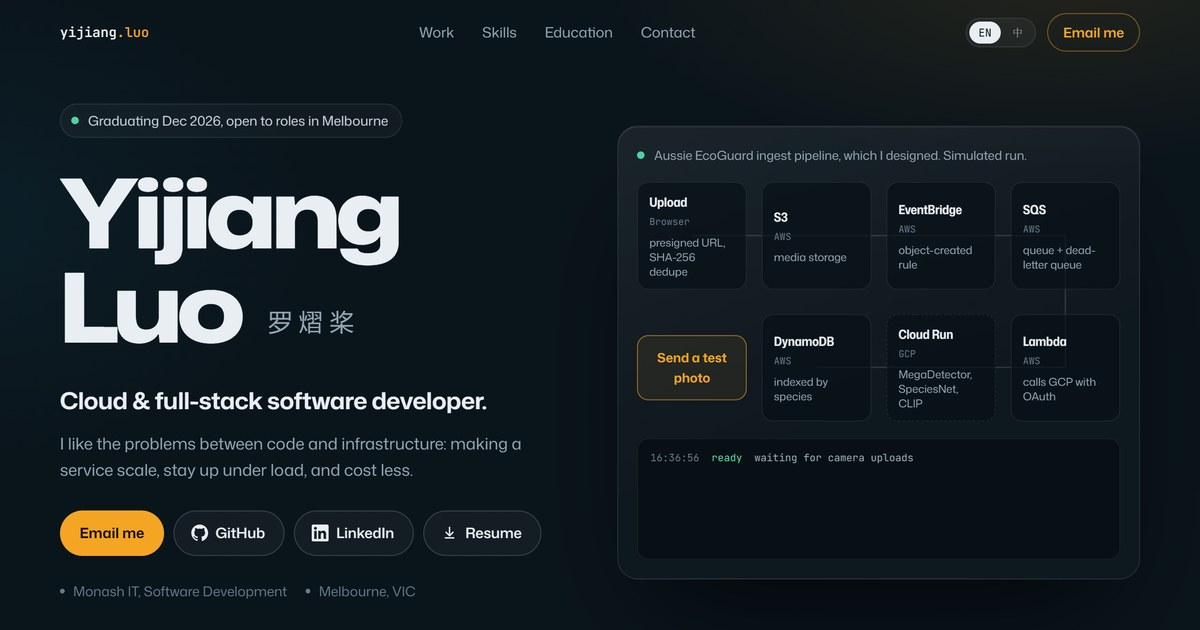
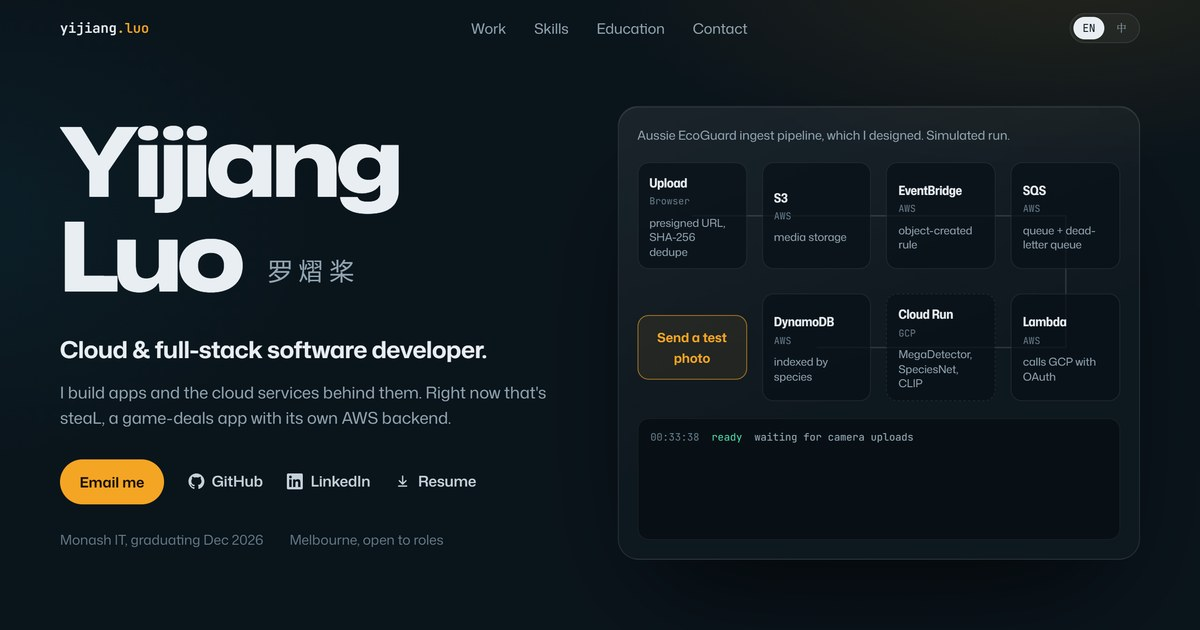
Update styles, scripts, and images for improved performance and clarity
- Update stylesheet and script versioning for cache busting
- Replace class name 'ghost' with 'pipe-ghost' for clarity
- Remove unused styles related to 'pill-cta'

diff --git a/index.html b/index.html
@@ -21,7 +21,7 @@
 <link rel="preconnect" href="https://fonts.gstatic.com" crossorigin>
 <link href="https://fonts.googleapis.com/css2?family=JetBrains+Mono:wght@400;500&family=Mona+Sans:wdth,wght@75..125,200..900&display=swap" rel="stylesheet">
 <!-- Bump ?v= whenever styles.css or main.js change, so browsers don't pair new HTML with a cached old file. -->
-<link rel="stylesheet" href="styles.css?v=20261118-3">
+<link rel="stylesheet" href="styles.css?v=20261119-1">
 <script>
   // Apply the saved language before first paint so the page doesn't flicker.
   (function () {
@@ -51,7 +51,6 @@
     <button class="lang" type="button" id="langToggle" aria-label="Switch language / 切换语言">
       <span class="opt" data-for="en">EN</span><span class="opt" data-for="zh">中</span>
     </button>
-    <a class="pill-cta" href="mailto:1246215651@qq.com"><span data-l="en">Email me</span><span data-l="zh">发邮件</span></a>
   </div>
 </header>
 
@@ -61,7 +60,6 @@
   <!-- ═════════════ Hero ═════════════ -->
   <section class="hero">
     <div class="intro">
-      <p class="avail"><span class="dot-live" aria-hidden="true"></span><span data-l="en">Graduating Dec 2026, open to roles in Melbourne</span><span data-l="zh">2026 年 12 月毕业，正在寻找墨尔本的工作机会</span></p>
       <h1 class="name">
         <span class="line"><span>Yijiang</span></span>
         <span class="line"><span>Luo <i class="cn" lang="zh-CN">罗熠桨</i></span></span>
@@ -71,26 +69,25 @@
         <span data-l="zh">云计算与全栈软件开发。</span>
       </p>
       <p class="lede">
-        <span data-l="en">I like the problems between code and infrastructure: making a service scale, stay up under load, and cost less.</span>
-        <span data-l="zh">我喜欢代码与基础设施之间的问题：让服务能扩展、扛得住负载、成本更低。</span>
+        <span data-l="en">I build apps and the cloud services behind them. Right now that's steaL, a game-deals app with its own AWS backend.</span>
+        <span data-l="zh">我做应用，也做它们背后的云服务。最近在做的是 steaL，一个游戏折扣应用，后端跑在 AWS 上。</span>
       </p>
       <div class="links">
         <a class="btn primary" href="mailto:1246215651@qq.com"><span data-l="en">Email me</span><span data-l="zh">发邮件</span></a>
-        <a class="btn" href="https://github.com/JohnWes7" target="_blank" rel="noopener"><svg class="ico" viewBox="0 0 16 16" aria-hidden="true"><path d="M8 0C3.58 0 0 3.58 0 8c0 3.54 2.29 6.53 5.47 7.59.4.07.55-.17.55-.38 0-.19-.01-.82-.01-1.49-2.01.37-2.53-.49-2.69-.94-.09-.23-.48-.94-.82-1.13-.28-.15-.68-.52-.01-.53.63-.01 1.08.58 1.23.82.72 1.21 1.87.87 2.33.66.07-.52.28-.87.51-1.07-1.78-.2-3.64-.89-3.64-3.95 0-.87.31-1.59.82-2.15-.08-.2-.36-1.02.08-2.12 0 0 .67-.21 2.2.82.64-.18 1.32-.27 2-.27.68 0 1.36.09 2 .27 1.53-1.04 2.2-.82 2.2-.82.44 1.1.16 1.92.08 2.12.51.56.82 1.27.82 2.15 0 3.07-1.87 3.75-3.65 3.95.29.25.54.73.54 1.48 0 1.07-.01 1.93-.01 2.2 0 .21.15.46.55.38A8.013 8.013 0 0016 8c0-4.42-3.58-8-8-8z"/></svg>GitHub</a>
-        <a class="btn" href="https://www.linkedin.com/in/yijiang-luo-924250412" target="_blank" rel="noopener"><svg class="ico" viewBox="0 0 24 24" aria-hidden="true"><path d="M20.447 20.452h-3.554v-5.569c0-1.328-.027-3.037-1.852-3.037-1.853 0-2.136 1.445-2.136 2.939v5.667H9.351V9h3.414v1.561h.046c.477-.9 1.637-1.85 3.37-1.85 3.601 0 4.267 2.37 4.267 5.455v6.286zM5.337 7.433c-1.144 0-2.063-.926-2.063-2.065 0-1.138.92-2.063 2.063-2.063 1.14 0 2.064.925 2.064 2.063 0 1.139-.925 2.065-2.064 2.065zm1.782 13.019H3.555V9h3.564v11.452zM22.225 0H1.771C.792 0 0 .774 0 1.729v20.542C0 23.227.792 24 1.771 24h20.451C23.2 24 24 23.227 24 22.271V1.729C24 .774 23.2 0 22.222 0h.003z"/></svg>LinkedIn</a>
+        <a class="tlink" href="https://github.com/JohnWes7" target="_blank" rel="noopener"><svg class="ico" viewBox="0 0 16 16" aria-hidden="true"><path d="M8 0C3.58 0 0 3.58 0 8c0 3.54 2.29 6.53 5.47 7.59.4.07.55-.17.55-.38 0-.19-.01-.82-.01-1.49-2.01.37-2.53-.49-2.69-.94-.09-.23-.48-.94-.82-1.13-.28-.15-.68-.52-.01-.53.63-.01 1.08.58 1.23.82.72 1.21 1.87.87 2.33.66.07-.52.28-.87.51-1.07-1.78-.2-3.64-.89-3.64-3.95 0-.87.31-1.59.82-2.15-.08-.2-.36-1.02.08-2.12 0 0 .67-.21 2.2.82.64-.18 1.32-.27 2-.27.68 0 1.36.09 2 .27 1.53-1.04 2.2-.82 2.2-.82.44 1.1.16 1.92.08 2.12.51.56.82 1.27.82 2.15 0 3.07-1.87 3.75-3.65 3.95.29.25.54.73.54 1.48 0 1.07-.01 1.93-.01 2.2 0 .21.15.46.55.38A8.013 8.013 0 0016 8c0-4.42-3.58-8-8-8z"/></svg>GitHub</a>
+        <a class="tlink" href="https://www.linkedin.com/in/yijiang-luo-924250412" target="_blank" rel="noopener"><svg class="ico" viewBox="0 0 24 24" aria-hidden="true"><path d="M20.447 20.452h-3.554v-5.569c0-1.328-.027-3.037-1.852-3.037-1.853 0-2.136 1.445-2.136 2.939v5.667H9.351V9h3.414v1.561h.046c.477-.9 1.637-1.85 3.37-1.85 3.601 0 4.267 2.37 4.267 5.455v6.286zM5.337 7.433c-1.144 0-2.063-.926-2.063-2.065 0-1.138.92-2.063 2.063-2.063 1.14 0 2.064.925 2.064 2.063 0 1.139-.925 2.065-2.064 2.065zm1.782 13.019H3.555V9h3.564v11.452zM22.225 0H1.771C.792 0 0 .774 0 1.729v20.542C0 23.227.792 24 1.771 24h20.451C23.2 24 24 23.227 24 22.271V1.729C24 .774 23.2 0 22.222 0h.003z"/></svg>LinkedIn</a>
         <!-- Resume PDFs: built from doc_local/cv/resume.html by doc_local/cv/build.sh. The Chinese PDF is offered only in the Chinese UI. -->
-        <a class="btn" href="assets/Yijiang-Luo-Resume-zh.pdf" download data-l="zh"><svg class="ico" viewBox="0 0 24 24" aria-hidden="true"><path d="M12 3a1 1 0 0 1 1 1v9.59l3.3-3.3a1 1 0 1 1 1.4 1.42l-5 5a1 1 0 0 1-1.4 0l-5-5a1 1 0 1 1 1.4-1.42l3.3 3.3V4a1 1 0 0 1 1-1zM5 19a1 1 0 0 1 1-1h12a1 1 0 1 1 0 2H6a1 1 0 0 1-1-1z"/></svg>中文简历</a>
-        <a class="btn" href="assets/Yijiang-Luo-Resume.pdf" download><svg class="ico" viewBox="0 0 24 24" aria-hidden="true"><path d="M12 3a1 1 0 0 1 1 1v9.59l3.3-3.3a1 1 0 1 1 1.4 1.42l-5 5a1 1 0 0 1-1.4 0l-5-5a1 1 0 1 1 1.4-1.42l3.3 3.3V4a1 1 0 0 1 1-1zM5 19a1 1 0 0 1 1-1h12a1 1 0 1 1 0 2H6a1 1 0 0 1-1-1z"/></svg><span data-l="en">Resume</span><span data-l="zh">英文简历</span></a>
+        <a class="tlink" href="assets/Yijiang-Luo-Resume-zh.pdf" download data-l="zh"><svg class="ico" viewBox="0 0 24 24" aria-hidden="true"><path d="M12 3a1 1 0 0 1 1 1v9.59l3.3-3.3a1 1 0 1 1 1.4 1.42l-5 5a1 1 0 0 1-1.4 0l-5-5a1 1 0 1 1 1.4-1.42l3.3 3.3V4a1 1 0 0 1 1-1zM5 19a1 1 0 0 1 1-1h12a1 1 0 1 1 0 2H6a1 1 0 0 1-1-1z"/></svg>中文简历</a>
+        <a class="tlink" href="assets/Yijiang-Luo-Resume.pdf" download><svg class="ico" viewBox="0 0 24 24" aria-hidden="true"><path d="M12 3a1 1 0 0 1 1 1v9.59l3.3-3.3a1 1 0 1 1 1.4 1.42l-5 5a1 1 0 0 1-1.4 0l-5-5a1 1 0 1 1 1.4-1.42l3.3 3.3V4a1 1 0 0 1 1-1zM5 19a1 1 0 0 1 1-1h12a1 1 0 1 1 0 2H6a1 1 0 0 1-1-1z"/></svg><span data-l="en">Resume</span><span data-l="zh">英文简历</span></a>
       </div>
       <ul class="facts">
-        <li><span data-l="en">Monash IT, Software Development</span><span data-l="zh">蒙纳士大学 IT，软件开发方向</span></li>
-        <li><span data-l="en">Melbourne, VIC</span><span data-l="zh">墨尔本，维多利亚州</span></li>
+        <li><span data-l="en">Monash IT, graduating Dec 2026</span><span data-l="zh">蒙纳士大学 IT，2026 年 12 月毕业</span></li>
+        <li><span data-l="en">Melbourne, open to roles</span><span data-l="zh">墨尔本，正在寻找工作机会</span></li>
       </ul>
     </div>
 
     <figure class="pipe-wrap" aria-labelledby="pipeCap">
       <figcaption id="pipeCap" class="pipe-cap">
-        <span class="dot-live" aria-hidden="true"></span>
         <span data-l="en">Aussie EcoGuard ingest pipeline, which I designed. Simulated run.</span>
         <span data-l="zh">我设计的 Aussie EcoGuard 处理流水线（模拟运行）</span>
       </figcaption>
@@ -324,7 +321,6 @@
           <p class="stack">S3 / EventBridge / SQS / Lambda / DynamoDB / Cognito / Cloud Run / Terraform / Python / pytest + moto</p>
           <div class="actions">
             <a class="btn" href="https://github.com/JohnWes7/aussie-ecoguard-multicloud-platform" target="_blank" rel="noopener"><span data-l="en">Source on GitHub</span><span data-l="zh">GitHub 源码</span></a>
-            <button class="btn ghost" type="button" data-zoom="assets/work/eco-architecture.webp" data-cap-en="Aussie EcoGuard architecture on AWS and GCP" data-cap-zh="Aussie EcoGuard 在 AWS 和 GCP 上的架构"><span data-l="en">View architecture</span><span data-l="zh">查看架构图</span></button>
           </div>
         </div>
 
@@ -607,6 +603,6 @@
   <p class="lb-cap"></p>
 </dialog>
 
-<script src="main.js?v=20261118-3"></script>
+<script src="main.js?v=20261119-1"></script>
 </body>
 </html>

diff --git a/styles.css b/styles.css
@@ -92,13 +92,6 @@ main { max-width: calc(var(--max) + 2 * var(--gutter)); margin: 0 auto; padding:
 .lang .opt { font-family: var(--mono); font-size: 0.72rem; line-height: 1; padding: 6px 10px; border-radius: 999px; color: var(--muted); transition: background-color .2s, color .2s; }
 html[data-lang="en"] .lang .opt[data-for="en"],
 html[data-lang="zh"] .lang .opt[data-for="zh"] { background: var(--text); color: var(--bg); }
-.pill-cta {
-  text-decoration: none; font-size: 0.9rem; font-weight: 600;
-  padding: 8px 16px; border-radius: 999px;
-  color: var(--amber); border: 1px solid rgba(245, 165, 36, 0.45);
-  transition: background-color .2s, color .2s;
-}
-.pill-cta:hover { background: var(--amber); color: #1a1205; }
 
 /* ══ Buttons ══════════════════════════════════════════════ */
 .btn {
@@ -114,8 +107,14 @@ html[data-lang="zh"] .lang .opt[data-for="zh"] { background: var(--text); color:
 .btn.ghost { background: transparent; }
 .btn .ico { width: 18px; height: 18px; flex: none; fill: currentColor; margin-left: -2px; }
 
-.dot-live { width: 8px; height: 8px; border-radius: 50%; background: var(--ok); flex: none; animation: pulse 2.4s infinite; }
-@keyframes pulse { 0% { box-shadow: 0 0 0 0 rgba(79, 209, 161, .55); } 70%, 100% { box-shadow: 0 0 0 9px rgba(79, 209, 161, 0); } }
+/* Quiet links with an icon: the hero keeps one real button (Email) and lists the rest as text. */
+.tlink {
+  display: inline-flex; align-items: center; gap: 8px; padding: 6px 0;
+  color: var(--soft); font-size: 0.98rem; font-weight: 550; text-decoration: none;
+  border-bottom: 1px solid transparent; transition: color .2s, border-color .2s;
+}
+.tlink:hover { color: var(--text); border-bottom-color: var(--line-2); }
+.tlink .ico { width: 17px; height: 17px; flex: none; fill: currentColor; }
 
 /* ══ Hero ═════════════════════════════════════════════════ */
 .hero {
@@ -125,12 +124,6 @@ html[data-lang="zh"] .lang .opt[data-for="zh"] { background: var(--text); color:
   align-items: center;
   min-height: calc(100svh - 70px);
   padding: clamp(28px, 6vh, 64px) 0 clamp(48px, 8vh, 88px);
-}
-.avail {
-  display: inline-flex; align-items: center; gap: 10px; margin: 0 0 30px;
-  padding: 6px 14px 6px 11px; border-radius: 999px;
-  border: 1px solid var(--line); background: rgba(255, 255, 255, 0.03);
-  color: var(--soft); font-size: 0.88rem;
 }
 .name {
   margin: 0;
@@ -149,11 +142,9 @@ html[data-lang="zh"] .lang .opt[data-for="zh"] { background: var(--text); color:
 }
 .role { margin: 30px 0 0; font-size: clamp(1.25rem, 2vw, 1.55rem); font-weight: 650; font-stretch: 105%; letter-spacing: -0.01em; }
 .lede { margin: 12px 0 0; max-width: 32em; color: var(--muted); font-size: 1.08rem; }
-.links { display: flex; flex-wrap: wrap; gap: 10px; margin-top: 30px; }
-.facts { list-style: none; padding: 0; margin: 26px 0 0; display: flex; flex-wrap: wrap; gap: 8px 20px; color: var(--faint); font-size: 0.9rem; }
-.facts li::before { content: ""; display: inline-block; width: 5px; height: 5px; border-radius: 50%; background: var(--faint); margin-right: 9px; vertical-align: 0.2em; }
+.links { display: flex; flex-wrap: wrap; align-items: center; gap: 10px 26px; margin-top: 30px; }
+.facts { list-style: none; padding: 0; margin: 26px 0 0; display: flex; flex-wrap: wrap; gap: 6px 28px; color: var(--faint); font-size: 0.9rem; }
 .intro > :not(.name) { animation: fadeUp .9s var(--ease) both; animation-delay: .32s; }
-.intro > .avail { animation-delay: .05s; }
 @keyframes fadeUp { from { opacity: 0; transform: translateY(14px); } to { opacity: 1; transform: none; } }
 
 /* ── Pipeline card ─────────────────────────────────────── */
@@ -190,12 +181,13 @@ html[data-lang="zh"] .lang .opt[data-for="zh"] { background: var(--text); color:
 .node.gcp { border-style: dashed; }
 .node.hot { border-color: var(--amber); box-shadow: 0 0 0 3px rgba(245, 165, 36, .14), 0 0 30px -6px rgba(245, 165, 36, .55); transform: translateY(-2px); }
 .node.hot b { color: var(--amber); }
-.packet, .ghost {
+/* .pipe-ghost, not .ghost: a bare .ghost also matched .btn.ghost and hid those buttons. */
+.packet, .pipe-ghost {
   position: absolute; z-index: 2; left: 0; top: 0; border-radius: 50%;
   background: var(--amber); opacity: 0; pointer-events: none;
 }
 .packet { width: 12px; height: 12px; margin: -6px 0 0 -6px; box-shadow: 0 0 16px 4px rgba(245, 165, 36, .6); }
-.ghost { width: 7px; height: 7px; margin: -3.5px 0 0 -3.5px; }
+.pipe-ghost { width: 7px; height: 7px; margin: -3.5px 0 0 -3.5px; }
 .send {
   grid-row: var(--r); grid-column: var(--c);
   align-self: center; justify-self: stretch; z-index: 1;
@@ -657,7 +649,6 @@ html[lang="zh-CN"] .repo-d, html[lang="zh-CN"] .repo-notes p:not(.stack) { line-
   .pipe { grid-template-columns: repeat(2, minmax(0, 1fr)); gap: 22px 14px; }
   .node, .send { grid-row: var(--mr); grid-column: var(--mc); }
   .pipe-wrap { padding: 14px; border-radius: 18px; }
-  .pill-cta { display: none; }
   .card-body { padding: 20px 20px 24px; }
   .repo-cell { padding: 18px 18px 20px; }
   .repo-panel { padding: 4px 18px 22px; }

diff --git a/main.js b/main.js
@@ -411,7 +411,7 @@
     var log = $('#log');
     var ghosts = [0, 1, 2, 3].map(function () {
       var g = document.createElement('span');
-      g.className = 'ghost';
+      g.className = 'pipe-ghost';
       g.setAttribute('aria-hidden', 'true');
       pipe.appendChild(g);
       return g;
